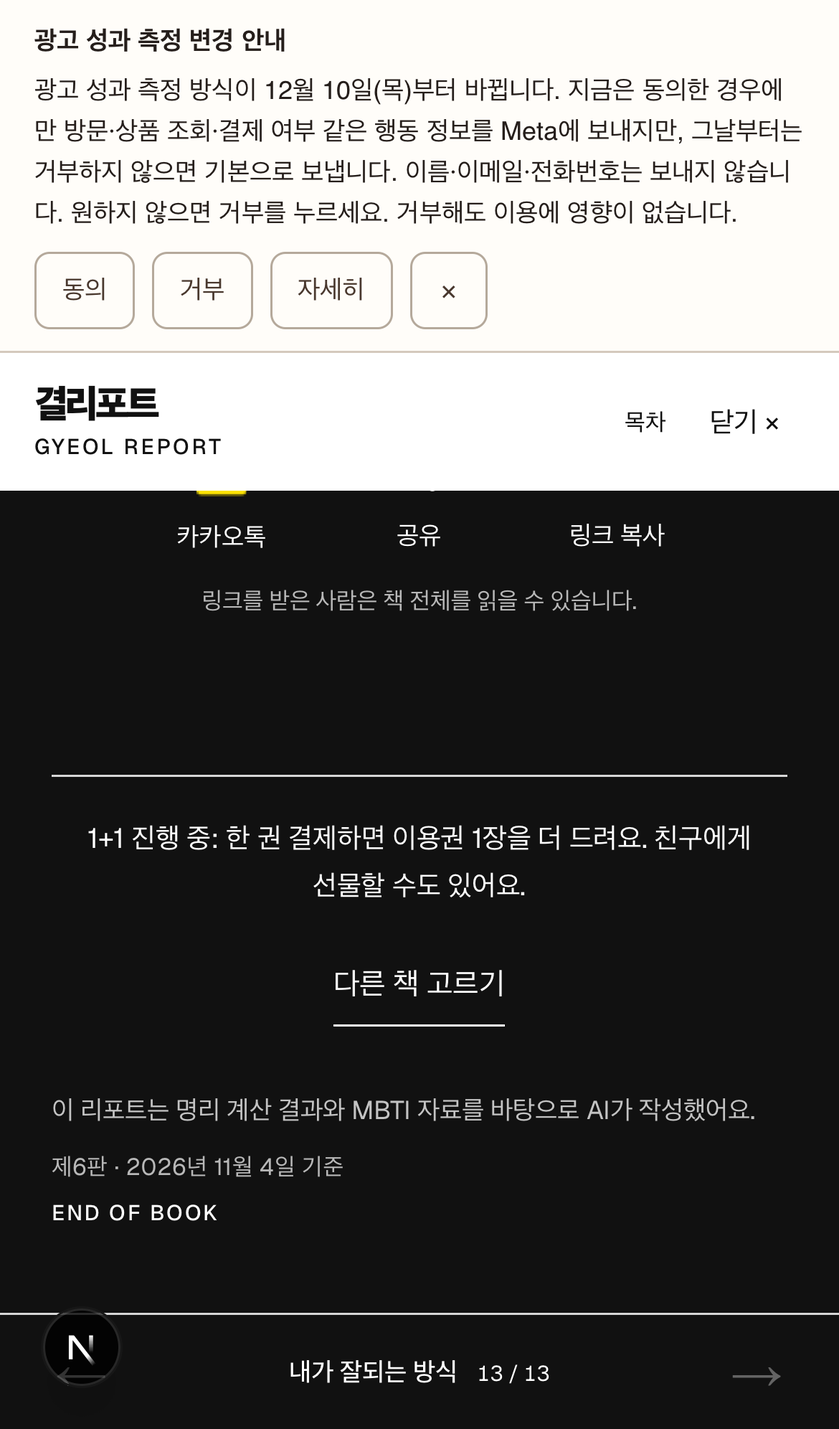
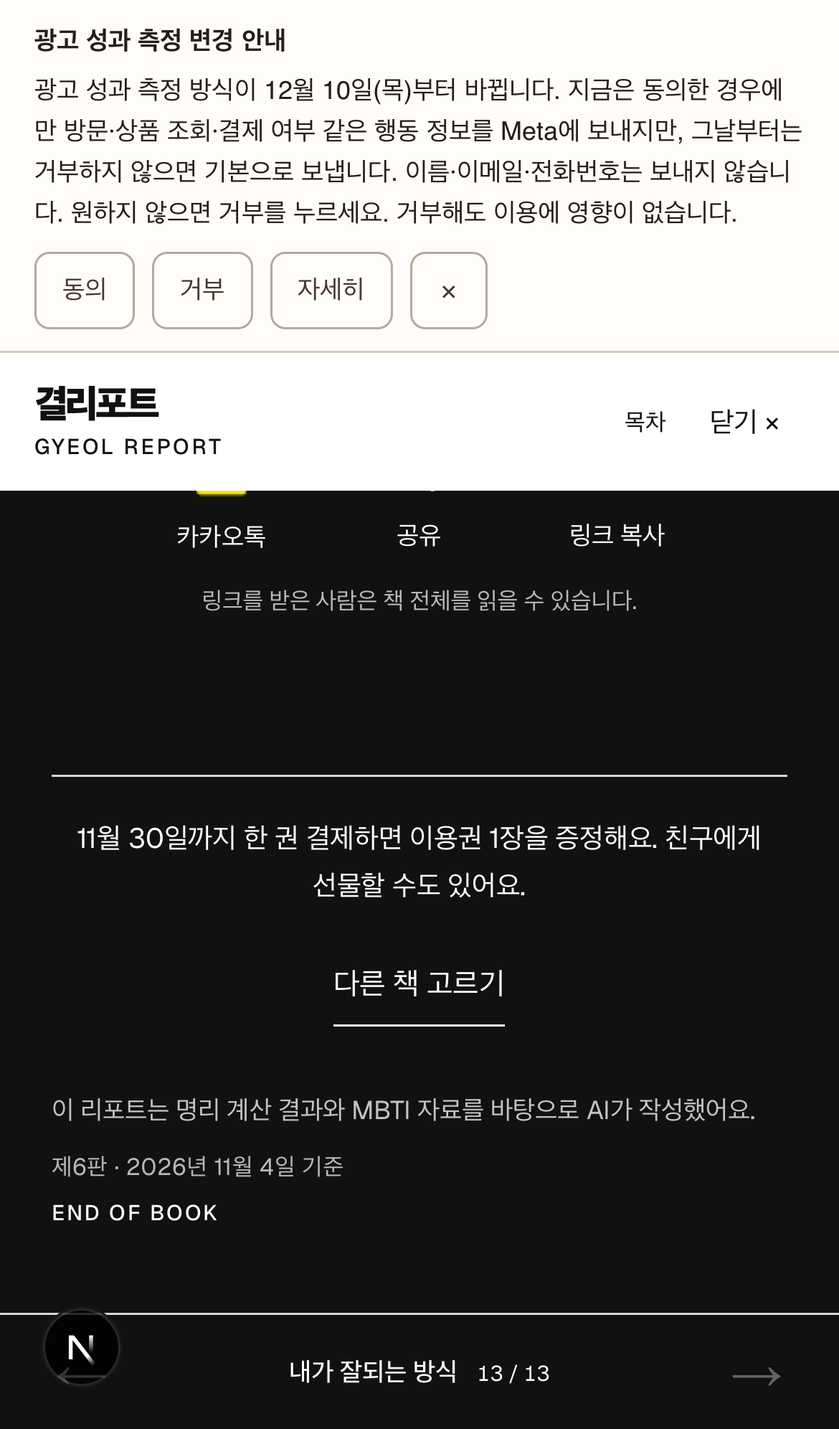
fix(free-book): 고객 화면 「1+1」 문구 4곳 → 「증정」(날짜 = 설정값), DB 시험 계정 표(ops_test_accounts)·ops_test_user가 표도 봄·서버 목록 60초 캐시, 배포 확인값 정리 migration, 캡처 다시

Changed region(s): [[0.0923, 0.5602, 0.9231, 0.5914]]

diff --git a/tests/unit/ops/freeBookWeb.test.tsx b/tests/unit/ops/freeBookWeb.test.tsx
@@ -5,7 +5,7 @@ vi.mock("server-only", () => ({}));
 const hits = vi.hoisted(() => ({ calls: [] as Record<string, unknown>[], user: null as null | { id: string } }));
 vi.mock("@/lib/ops/store", () => ({ createOpsStores: () => ({ funnel: { call: async (a: string, d: Record<string, unknown>) => { hits.calls.push({ a, ...d }); return { ok: true }; } }, signup: { call: async () => ({ ok: true, on: true }) } }) }));
 vi.mock("@/lib/account/supabase", () => ({ createAccountPort: () => ({ currentUser: async () => hits.user }) }));
-vi.mock("@/lib/ops/notify/deps", () => ({ testAccountIds: () => ["00000000-0000-4000-8000-00000000a001"] }));
+vi.mock("@/lib/ops/notify/deps", () => ({ testAccountIds: () => ["00000000-0000-4000-8000-00000000a001"], liveTestAccountIds: async () => new Set(["00000000-0000-4000-8000-00000000a001"]) }));
 import { NextRequest } from "next/server";
 import { renderToStaticMarkup } from "react-dom/server";
 import { POST as funnelPost } from "@/app/api/funnel/route";
@@ -125,9 +125,9 @@ describe("/free 화면", () => {
     const { FreeLanding } = await import("@/components/growth/FreeLanding");
     return renderToStaticMarkup(<FreeLanding signup={{ ...signupPublicView(true, { GIFT_EVENT_ENABLED: "1" }, Date.parse("2026-11-12T12:00:00+09:00")), active }} event={event} examples={freeExamples()} />);
   };
-  it("질문·설명·예시 「한 페이지」 3장(가상 인물 예시 본문 그대로, HTML)·혜택·[가입하고 무료로 받기]→로그인·1+1 줄(11월 30일까지)·권유 링크", async () => {
+  it("질문·설명·예시 「한 페이지」 3장(가상 인물 예시 본문 그대로, HTML)·혜택·[가입하고 무료로 받기]→로그인·증정 줄(11월 30일까지)·권유 링크", async () => {
     const html = await render(true);
-    for (const t of [FREE_COPY.question, FREE_COPY.lead, FREE_COPY.benefit, "(이용권 1장, 7일)", FREE_COPY.cta, "지금 1+1 진행 중 — 한 권 결제하면 이용권 1장 증정(11월 30일까지)", FREE_COPY.follow]) expect(html).toContain(t);
+    for (const t of [FREE_COPY.question, FREE_COPY.lead, FREE_COPY.benefit, "(이용권 1장, 7일)", FREE_COPY.cta, "11월 30일까지 한 권 결제하면 이용권 1장 증정", FREE_COPY.follow]) expect(html).toContain(t);
     expect(html).toContain('href="/login?next=/free"');
     expect((html.match(/data-free-example/g) ?? [])).toHaveLength(3);
     const ex = freeExamples();
@@ -158,5 +158,41 @@ describe("로그인 화면 한 줄·책 끝 연결 위치", () => {
     const reading = readFileSync("src/components/book/BookReading.tsx", "utf8"), reader = readFileSync("src/app/dev/book-preview/BookReader.tsx", "utf8");
     expect(reading).toContain("endNotice={!example && !shared && shareOwner && endNotice ? <BookEndNotice view={endNotice} home={home} /> : undefined}");
     expect(reader).toContain("</div></section>}{endNotice}{backAction}");
+  });
+});
+
+describe("2026-11-10 정정: 고객 화면 4곳은 「증정」 표현(「1+1」·「더 드려요」 없음), 날짜는 설정값(1+1 끝)", () => {
+  const NOW = Date.parse("2026-11-12T12:00:00+09:00"), ON = { GIFT_EVENT_ENABLED: "1" };
+  const banned = /1\+1|더 드려요|한 권이 더/;
+  it("가입 팝업·책 끝·메인 띠·/free 작은 줄 — 지시 문구 그대로", async () => {
+    const { signupPopupEventLine } = await import("@/components/event/EventPopup");
+    const { bookEndEventLine } = await import("@/components/book/BookReading");
+    const { SIGNUP_STRIP_TEXT, SIGNUP_STRIP_EVENT } = await import("@/components/growth/GiftEventCountdown");
+    const { eventEndDayLabel } = await import("@/lib/ops/config");
+    const until = eventEndDayLabel(giftEventPublicView(ON, NOW).endsAt);
+    expect(until).toBe("11월 30일");
+    const lines = [signupPopupEventLine(until), bookEndEventLine(until), `${SIGNUP_STRIP_TEXT} · ${SIGNUP_STRIP_EVENT}`, FREE_COPY.eventLine(until)];
+    expect(lines).toEqual(["11월 30일까지 한 권 결제하면 이용권 1장을 증정해요", "11월 30일까지 한 권 결제하면 이용권 1장을 증정해요. 친구에게 선물할 수도 있어요.",
+      "지금 가입하면 내 책 한 권 무료 · 결제 시 이용권 증정", "11월 30일까지 한 권 결제하면 이용권 1장 증정"]);
+    for (const l of lines) expect(l).not.toMatch(banned);
+  });
+  it("가입 팝업 화면: 서버가 준 1+1 끝(설정값)으로 날짜를 그린다 — 끝을 바꾸면 날짜도 바뀐다", async () => {
+    const { EventPopup } = await import("@/components/event/EventPopup");
+    const draw = (env: Record<string, string>) => renderToStaticMarkup(<EventPopup id="signup" clock={() => NOW} onDone={() => undefined}
+      state={{ member: true, comp: null, event: giftEventPublicView(env, NOW), signup: { active: true, mine: { status: "available", expiresAt: new Date(NOW + 7 * 86_400_000).toISOString() } } }} />);
+    expect(draw(ON)).toContain("11월 30일까지 한 권 결제하면 이용권 1장을 증정해요");
+    expect(draw({ ...ON, GIFT_EVENT_END: "2026-12-15" })).toContain("12월 15일까지 한 권 결제하면 이용권 1장을 증정해요");
+    expect(draw(ON)).not.toMatch(banned);
+  });
+  it("책 끝: 서버(bookEndNotice)가 설정값에서 날짜를 넘기고, 1+1 기간이 아니면 줄 없음", async () => {
+    const { bookEndNotice } = await import("@/lib/book/storedReport");
+    const { BookEndNotice } = await import("@/components/book/BookReading");
+    vi.stubEnv("GIFT_EVENT_ENABLED", "1");
+    const view = await bookEndNotice("report_x", false, NOW);
+    expect(view).toEqual({ event: true, eventUntil: "11월 30일", signup: false });
+    expect(renderToStaticMarkup(<BookEndNotice view={view} />)).toContain("11월 30일까지 한 권 결제하면 이용권 1장을 증정해요. 친구에게 선물할 수도 있어요.");
+    vi.stubEnv("GIFT_EVENT_END", "2026-12-15");
+    expect((await bookEndNotice("report_x", false, NOW)).eventUntil).toBe("12월 15일");
+    expect(await bookEndNotice("report_x", false, Date.parse("2026-12-20T00:00:00+09:00"))).toEqual({ event: false, eventUntil: "", signup: false });
   });
 });

diff --git a/tests/unit/ops/freeBookSql.test.ts b/tests/unit/ops/freeBookSql.test.ts
@@ -168,3 +168,42 @@ describe("매출 봇 /event: 시험 계정 이용권을 뺀다", () => {
     expect(Number(after.issued) - Number(before.issued)).toBe(1);
   });
 });
+
+describe("F 후속 「시험 계정 표」(ops_test_accounts, migration 20261111100000)", () => {
+  it("표에 넣으면 ops_test_user가 참(설정값 목록과 별개) → /campaign·/funnel 서버 기록·/event에서 빠지고, 빼면 바로 돌아온다", async () => {
+    const id = u(900); await joined(id);
+    expect(await signup.call("grant", { userId: id, providerHash: hash(900), ...win() })).toMatchObject({ ok: true, issued: true });
+    const stats = async () => signup.call("stats", { start: iso(Date.now() - 3_600_000) });
+    const server = async () => (await funnel.call("report", { days: 7 })).server as Record<string, number>;
+    const before = await stats(), beforeServer = await server();
+    expect((await h.one<{ r: boolean }>("select ops_test_user($1) r", [id])).r).toBe(false);
+    await h.exec("insert into public.ops_test_accounts(user_id,note) values($1,'덕짱님 시험')", [id]);
+    expect((await h.one<{ r: boolean }>("select ops_test_user($1) r", [id])).r).toBe(true);
+    const after = await stats(), afterServer = await server();
+    expect(Number(before.granted) - Number(after.granted)).toBe(1); expect(Number(before.signups) - Number(after.signups)).toBe(1);
+    expect(beforeServer.signups - afterServer.signups).toBe(1); expect(beforeServer.grants - afterServer.grants).toBe(1);
+    // 설정값(크론이 env로 덮어쓰는 목록)을 바꿔도 표의 계정은 그대로 시험 계정이다.
+    const saved = (await h.one<{ v: { ids: string[] } | null }>("select value v from ops_settings where key='test_accounts'")).v ?? { ids: [] };
+    await h.rpc("ops_notify_put_setting", "test_accounts", { ids: [] });
+    expect((await h.one<{ r: boolean }>("select ops_test_user($1) r", [id])).r).toBe(true);
+    await h.rpc("ops_notify_put_setting", "test_accounts", saved);
+    await h.exec("delete from public.ops_test_accounts where user_id=$1", [id]);
+    expect((await h.one<{ r: boolean }>("select ops_test_user($1) r", [id])).r).toBe(false);
+    expect(Number((await stats()).granted)).toBe(Number(before.granted));
+  });
+  it("서버(service_role)는 읽기만, 화면 역할(anon·authenticated)은 읽지도 못한다. 없는 계정 id는 넣을 수 없다(auth.users 참조)", async () => {
+    const grants = await h.all<{ grantee: string; privilege_type: string }>("select grantee,privilege_type from information_schema.role_table_grants where table_schema='public' and table_name='ops_test_accounts' and grantee in ('anon','authenticated','service_role') order by 1,2");
+    expect(grants).toEqual([{ grantee: "service_role", privilege_type: "SELECT" }]);
+    await expect(h.exec("insert into public.ops_test_accounts(user_id) values($1)", [u(901)])).rejects.toThrow(/foreign key|violates/);
+    expect((await h.one<{ rls: boolean }>("select relrowsecurity rls from pg_class where oid='public.ops_test_accounts'::regclass")).rls).toBe(true);
+  });
+  it("배포 확인값(funnel_daily source 'deploycheck')은 이 migration이 지운다 — 다른 행은 그대로", async () => {
+    await funnel.call("hit", { step: "free_view", source: "deploycheck", campaign: "f_deploy_check" });
+    await funnel.call("hit", { step: "free_view", source: "meta", campaign: "free_book_1111" });
+    const sql = (await import("node:fs")).readFileSync("supabase/migrations/20261111100000_v5_test_account_table.sql", "utf8");
+    const cleanup = sql.slice(sql.lastIndexOf("do $$ begin"), sql.lastIndexOf("commit;"));
+    await h.exec(cleanup);
+    expect((await h.one<{ n: number }>("select count(*)::int n from funnel_daily where source='deploycheck'")).n).toBe(0);
+    expect((await h.one<{ n: number }>("select count(*)::int n from funnel_daily where source='meta' and campaign='free_book_1111'")).n).toBeGreaterThan(0);
+  });
+});

diff --git a/tests/unit/ops/freeBookFlow.test.tsx b/tests/unit/ops/freeBookFlow.test.tsx
@@ -12,7 +12,9 @@ import { grantSignupTicket, readWallet, signupProviderHash, SIGNUP_HASH_LABEL } 
 import { giftEventConfig, giftEventPublicView, signupCampaignConfig, signupPublicView, SIGNUP_TICKET_DAYS } from "@/lib/ops/config";
 import { selectPopup, signupPopupDue, type PopupState } from "@/lib/ops/comp/popupSelect";
 import { signupStripVisible } from "@/components/growth/GiftEventCountdown";
-import { BookEndNotice, BOOK_END_EVENT_LINE, BOOK_END_SIGNUP_LINE, BOOK_END_CTA } from "@/components/book/BookReading";
+import { BookEndNotice, bookEndEventLine, BOOK_END_SIGNUP_LINE, BOOK_END_CTA } from "@/components/book/BookReading";
+/** 2026-11-10 정정 문구(「증정」, 날짜 = 설정값). */
+const BOOK_END_EVENT_LINE = "11월 30일까지 한 권 결제하면 이용권 1장을 증정해요. 친구에게 선물할 수도 있어요.";
 import { normalizeReportInputPayload } from "@/lib/report-generation/reportInputAdapter";
 import { runTicketPublicationJob } from "@/lib/tickets/publicationWorker";
 import { llmDeps, mockTextFor, opsStoreOf, RAW_FULL } from "../../helpers/v5Scenarios";
@@ -64,7 +66,7 @@ describe("신규 가입 → 이용권 1장 → 책 생성 → 책 끝 줄", () =
     expect(again).toMatchObject({ ok: true }); expect(again.joined).toBeUndefined(); expect(again.signupGift).toBeUndefined();
     expect(await readWallet(h.rpcOf("ops_gift"), user.id)).toMatchObject({ total: 1, usable: 1, giftable: 0 });
   });
-  it("그 이용권으로 책 생성(실제 발행 경로) → 발행 → 책 끝 판정 signup:true, 1+1 기간이면 1+1 줄도", async () => {
+  it("그 이용권으로 책 생성(실제 발행 경로) → 발행 → 책 끝 판정 signup:true, 1+1 기간이면 증정 줄도", async () => {
     const payload = (() => { const n = normalizeReportInputPayload(RAW_FULL, { now: () => new Date("2026-10-27T03:00:00.000Z") }); if (!n.ok) throw new Error("payload"); return n.value; })();
     const requestId = randomUUID();
     expect(await h.rpc("ops_gift", "spend", { userId: user.id, productType: payload.productKey, requestId })).toMatchObject({ ok: true, moved: true });
@@ -79,13 +81,14 @@ describe("신규 가입 → 이용권 1장 → 책 생성 → 책 끝 줄", () =
     expect(snap).toMatchObject({ status: "COMPLETED" }); expect(snap.ticket_redemption_id).toBeTruthy();
     expect(await h.rpc("ops_signup", "book_kind", { reportId })).toEqual({ ok: true, signup: true });
     expect((await h.one<{ status: string }>("select status from gift_rewards where owner_user_id=$1", [user.id])).status).toBe("used_self");
-    const html = renderToStaticMarkup(<BookEndNotice view={{ event: true, signup: true }} />);
+    expect(bookEndEventLine("11월 30일")).toBe(BOOK_END_EVENT_LINE);
+    const html = renderToStaticMarkup(<BookEndNotice view={{ event: true, signup: true, eventUntil: "11월 30일" }} />);
     expect(html.indexOf(BOOK_END_SIGNUP_LINE)).toBeGreaterThanOrEqual(0);
     expect(html.indexOf(BOOK_END_SIGNUP_LINE)).toBeLessThan(html.indexOf(BOOK_END_EVENT_LINE));
     expect(html).toContain(`>${BOOK_END_CTA}</a>`);
   }, 60_000);
-  it("결제 책은 1+1 줄만, 1+1 기간이 아니면 결제 책엔 아무것도 없다(가입 이용권 책은 가입 줄만)", () => {
-    const paid = renderToStaticMarkup(<BookEndNotice view={{ event: true, signup: false }} />);
+  it("결제 책은 증정 줄만, 1+1 기간이 아니면 결제 책엔 아무것도 없다(가입 이용권 책은 가입 줄만)", () => {
+    const paid = renderToStaticMarkup(<BookEndNotice view={{ event: true, signup: false, eventUntil: "11월 30일" }} />);
     expect(paid).toContain(BOOK_END_EVENT_LINE); expect(paid).not.toContain(BOOK_END_SIGNUP_LINE);
     expect(renderToStaticMarkup(<BookEndNotice view={{ event: false, signup: false }} />)).toBe("");
     const after = renderToStaticMarkup(<BookEndNotice view={{ event: false, signup: true }} />);

diff --git a/src/components/event/EventPopup.tsx b/src/components/event/EventPopup.tsx
@@ -6,7 +6,7 @@ import {
   eventRangeLabel, expiryLabel, isPopupState, popupAllowedPath, popupHidden, remainingLabel, rememberPopup, selectPopup,
   type PopupId, type PopupState,
 } from "../../lib/ops/comp/popupSelect";
-import { kstMonthDayLabel } from "../../lib/ops/config";
+import { eventEndDayLabel, kstMonthDayLabel } from "../../lib/ops/config";
 import s from "./eventPopup.module.css";
 
 const storages = () => {
@@ -63,8 +63,9 @@ export function EventPopupHost() {
  */
 export const SIGNUP_POPUP_TITLE = "가입을 환영해요.";
 export const SIGNUP_POPUP_BODY = "내 책 한 권을 무료로 만들 수 있는 이용권 1장을 서재에 넣어 드렸어요(7일 안에 사용).";
-export const SIGNUP_POPUP_EVENT_LINE = "지금 1+1 진행 중 — 한 권 결제하면 이용권 1장을 더 드려요";
-export function SignupPopupBody({ titleId, bodyId, eventOn, onPick, custom = false }: { titleId: string; bodyId: string; eventOn: boolean; onPick: () => void; custom?: boolean }) {
+/** 1+1 기간 작은 줄(2026-11-10 정정: 「증정」 표현, 날짜는 설정값 — 1+1 끝). */
+export const signupPopupEventLine = (until: string) => `${until ? `${until}까지 ` : ""}한 권 결제하면 이용권 1장을 증정해요`;
+export function SignupPopupBody({ titleId, bodyId, eventOn, eventUntil = "", onPick, custom = false }: { titleId: string; bodyId: string; eventOn: boolean; eventUntil?: string; onPick: () => void; custom?: boolean }) {
   return <>
     <p className={s.eyebrow}>WELCOME</p>
     <h2 id={titleId} className={s.title}>{SIGNUP_POPUP_TITLE}</h2>
@@ -72,7 +73,7 @@ export function SignupPopupBody({ titleId, bodyId, eventOn, onPick, custom = fal
     <div className={s.actions}>
       <Link className={s.primary} href="/" data-signup-pick onClick={e => { if (/^\/(products)?\/?$/.test(window.location.pathname) || custom) e.preventDefault(); onPick(); }}>책 고르기</Link>
     </div>
-    {eventOn ? <p className={s.small} data-signup-event-line>{SIGNUP_POPUP_EVENT_LINE}</p> : null}
+    {eventOn ? <p className={s.small} data-signup-event-line>{signupPopupEventLine(eventUntil)}</p> : null}
   </>;
 }
 
@@ -103,7 +104,7 @@ export function EventPopup({ id, state, clock = Date.now, onDone, onPick }: { id
     onClick={e => { if (e.target === e.currentTarget) done("close"); }}>
     <div className={s.card}>
       <button type="button" className={s.close} aria-label="닫기" onClick={() => done("close")}><span aria-hidden="true">×</span></button>
-      {id === "signup" ? <SignupPopupBody titleId={titleId} bodyId={bodyId} eventOn={eventOn} custom={Boolean(onPick)} onPick={() => { if (onPick) { if (ref.current?.open && typeof ref.current.close === "function") ref.current.close(); onPick(); } else done("close"); }} /> : id === "event-1plus1" && event ? <>
+      {id === "signup" ? <SignupPopupBody titleId={titleId} bodyId={bodyId} eventOn={eventOn} eventUntil={eventEndDayLabel(event?.endsAt)} custom={Boolean(onPick)} onPick={() => { if (onPick) { if (ref.current?.open && typeof ref.current.close === "function") ref.current.close(); onPick(); } else done("close"); }} /> : id === "event-1plus1" && event ? <>
         <p className={s.eyebrow}>{eventRangeLabel(event)}</p>
         <h2 id={titleId} className={s.title}>한 권을 펼치면, 이용권 한 장</h2>
         <p id={bodyId} className={s.body}>리포트를 결제하면 1건마다 이용권 1장을 증정해요. 나를 한 권 더 읽거나, 소중한 사람에게 선물해 보세요.</p>

diff --git a/tests/unit/account/metaTestExclude.test.ts b/tests/unit/account/metaTestExclude.test.ts
@@ -39,10 +39,12 @@ beforeAll(async () => {
       select p_user is not null and coalesce((select jsonb_typeof(s.value->'ids')='array' and s.value->'ids' ? p_user::text from public.ops_settings s where s.key='test_accounts'), false); $$;`);
   // 같은 migration을 두 번 올리면 앵커가 없어 실패한다(이중 적용 방지) — 한 번만.
   await db.exec(read("20261111091000_v5_meta_test_exclude.sql"));
+  // F 후속: 시험 계정 표(ops_test_accounts) — 운영 순서대로 그 뒤에 올린다(ops_test_user가 표도 본다).
+  await db.exec(read("20261111100000_v5_test_account_table.sql"));
 }, 30000);
 beforeEach(async () => {
   await db.exec("truncate meta_conversion_outbox,meta_tracking_consents,account_contacts,launch_event_policy,growth_campaigns,report_ticket_grants,referral_invites,campaign_attributions,new_user_acquisitions cascade");
-  await db.exec("delete from public.ops_settings where key='test_accounts'");
+  await db.exec("delete from public.ops_settings where key='test_accounts'"); await db.exec("delete from public.ops_test_accounts");
   await h.clock(START); await h.policy(); await db.exec("update growth_campaigns set public_slug='gyeol-opening-2026'");
 });
 afterAll(async () => { await db?.close(); });
@@ -83,5 +85,17 @@ describe("시험 계정 메타 전송 차단(DB 트리거·전송 단계)", () =
     expect((await db.query<{ r: boolean }>("select queue_meta_purchase($1,null,'192.0.2.7','ua',$2) r", [report, tester])).rows[0].r).toBe(false);
     const event = `purchase_${createHash("md5").update(`gyeol:paid-order:${order}`).digest("hex")}`;
     expect((await db.query<{ n: number }>("select count(*)::int n from meta_conversion_outbox where event_id=$1", [event])).rows[0].n).toBe(0);
+  });
+  it("F 후속 「시험 계정 표」(ops_test_accounts)에 넣은 계정도 같은 자리에서 빠진다 — 설정값(관리자·누나 목록)과 별개, 재배포 없이", async () => {
+    const tester = await h.user(); const key = await consent(tester);
+    await db.query("insert into public.ops_test_accounts(user_id,note) values($1,'시험')", [tester]);
+    expect((await db.query<{ r: boolean }>("select public.ops_test_user($1) r", [tester])).rows[0].r).toBe(true);
+    const { order, report } = await paidOrder(tester);
+    expect(await rows(order)).toEqual([]);
+    expect((await db.query<{ r: boolean }>("select queue_meta_purchase($1,$2,'192.0.2.9','ua',$3) r", [report, key, tester])).rows[0].r).toBe(false);
+    // 표에서 빼면 바로 예전 그대로(다음 결제는 1줄).
+    await db.query("delete from public.ops_test_accounts where user_id=$1", [tester]);
+    expect((await db.query<{ r: boolean }>("select public.ops_test_user($1) r", [tester])).rows[0].r).toBe(false);
+    expect(await rows((await paidOrder(tester)).order)).toHaveLength(1);
   });
 });

diff --git a/tests/unit/ops/freeBookBots.test.ts b/tests/unit/ops/freeBookBots.test.ts
@@ -6,6 +6,7 @@ import { handleUpdate, type BotDeps } from "@/lib/ops/notify/bots";
 import { BOT_COMMANDS, flushNotifications, runNotifyCycle, SIGNUP_SURGE_THRESHOLD } from "@/lib/ops/notify/flush";
 import { apiCreditText, campaignText, funnelText, signupSurgeText } from "@/lib/ops/notify/render";
 import { grantSignupTicket } from "@/lib/ops/gift/service";
+import { liveTestAccountIds, resetLiveTestAccounts, SISTER_TEST_USER_ID, TEST_TABLE_TTL_MS } from "@/lib/ops/notify/deps";
 import { fakeTelegram, opsNotifySql } from "../../helpers/opsNotify";
 import { TICKET_A as A } from "../../helpers/ticketPublicationSql";
 
@@ -120,5 +121,24 @@ describe("/campaign · /funnel · API 잔액 경보", () => {
     expect(campaignText({ on: false, at: "2026-11-11T05:00:00Z", signupsToday: 1, signups: 2, grantedToday: 1, granted: 2, used: 1, available: 1, expired: 0, booksStarted: 1, booksPublished: 1, avgCostUsd: null, costSample: 0 }, "11/11~11/30"))
       .toMatch(/^🎟 <b>가입 이용권<\/b> · ⏸ 지급 멈춤\(11\/11 14:00\)/);
     expect(funnelText({ today: "2026-11-11", from: "2026-11-05", rows: [], server: {} })).toContain("아직 기록이 없어요");
+  });
+});
+
+describe("F 후속: 서버의 시험 계정 목록 = env(관리자·누나 계정) + DB 「시험 계정 표」(60초 캐시)", () => {
+  it("표의 계정을 더하고, 60초 안에는 다시 읽지 않으며, 읽기 실패면 직전 값을 쓴다(처음이면 env 목록만)", async () => {
+    resetLiveTestAccounts();
+    const ADMIN = "00000000-0000-4000-8000-00000000a0a0", T1 = "00000000-0000-4000-8000-000000000071", T2 = "00000000-0000-4000-8000-000000000072";
+    const e = { ADMIN_USER_IDS: ADMIN };
+    let reads = 0; const read = (ids: string[] | null) => async () => { reads++; return ids; };
+    const first = await liveTestAccountIds(e, 1_000, read([T1.toUpperCase()]));
+    expect([...first].sort()).toEqual([ADMIN, SISTER_TEST_USER_ID, T1].sort());
+    expect([...await liveTestAccountIds(e, 1_000 + TEST_TABLE_TTL_MS - 1, read([T2]))]).not.toContain(T2);
+    expect(reads).toBe(1);
+    const fresh = await liveTestAccountIds(e, 1_000 + TEST_TABLE_TTL_MS, read([T2]));
+    expect(fresh.has(T2)).toBe(true); expect(fresh.has(T1)).toBe(false);
+    expect((await liveTestAccountIds(e, 1_000 + 2 * TEST_TABLE_TTL_MS, read(null))).has(T2)).toBe(true);
+    resetLiveTestAccounts();
+    expect([...await liveTestAccountIds(e, 5_000, read(null))].sort()).toEqual([ADMIN, SISTER_TEST_USER_ID].sort());
+    resetLiveTestAccounts();
   });
 });

diff --git a/src/lib/ops/notify/deps.ts b/src/lib/ops/notify/deps.ts
@@ -1,6 +1,7 @@
 import "server-only";
 import { defaultAdminDeps } from "../admin/actions";
 import { adminUserIds } from "../config";
+import { withDeadline } from "../../network/withDeadline";
 import { createOpsStores } from "../store";
 import type { BotDeps } from "./bots";
 import { tossPaymentMethodReader, type NotifyDeps } from "./flush";
@@ -14,6 +15,27 @@ export const SISTER_TEST_USER_ID = "d0dd2e4e-38cf-49b5-8dea-7a35ee54dd55";
  * 1분 크론이 DB(ops_settings 'test_accounts')에 맞추고, SQL 집계는 public.ops_test_user(uuid)로 뺀다(migration 20261110200000).
  */
 export function testAccountIds(env: Env = process.env): string[] { return [...new Set([...adminUserIds(env), SISTER_TEST_USER_ID].map(s => s.toLowerCase()))].sort(); }
+/**
+ * F 후속 「시험 계정 표」(DB public.ops_test_accounts — 관리자 권한과 별개, 집계·메타 전송에서만 뺌)까지 더한 목록.
+ * 세션의 「시험」 브라우저 표시와 /api/funnel 회원 단계가 쓴다(SQL 집계는 ops_test_user()가 같은 표를 본다). 60초 캐시, 못 읽으면 직전 값(처음이면 env 목록만).
+ */
+export const TEST_TABLE_TTL_MS = 60_000;
+let testTable: { at: number; ids: readonly string[] } | null = null;
+/** DB 표 읽기(service_role, 3초). 못 읽으면 null. */
+async function readTestTable(env: Env): Promise<string[] | null> {
+  const db = createOpsStores(env).db;
+  if (!db) return null;
+  try {
+    const { data, error } = await withDeadline(async signal => await db.from("ops_test_accounts").select("user_id").limit(200).abortSignal(signal), 3_000);
+    return !error && Array.isArray(data) ? data.map(r => String((r as { user_id: unknown }).user_id).toLowerCase()) : null;
+  } catch { return null; }
+}
+export async function liveTestAccountIds(env: Env = process.env, now = Date.now(), read: () => Promise<string[] | null> = () => readTestTable(env)): Promise<Set<string>> {
+  if (!testTable || now - testTable.at >= TEST_TABLE_TTL_MS || now < testTable.at) testTable = { at: now, ids: (await read()) ?? testTable?.ids ?? [] };
+  return new Set([...testAccountIds(env), ...testTable.ids]);
+}
+/** 시험용: 캐시 비우기. */
+export function resetLiveTestAccounts() { testTable = null; }
 /** 운영 기본 의존성(service_role 저장소 + 텔레그램 + 토스 결제 조회). 시험은 각 함수에 대역을 넘긴다. */
 export function defaultBotDeps(env: Env = process.env): BotDeps {
   const stores = createOpsStores(env), db = stores.db;

diff --git a/tests/helpers/opsNotify.ts b/tests/helpers/opsNotify.ts
@@ -29,11 +29,13 @@ export const refundProvider: RefundProvider = {
 /** F(가입 이용권·퍼널): 운영과 같은 순서로 1+1·보상(final4·별칭 고침·perf) migration을 먼저 올린 뒤 운영 Q·시험 계정, 마지막에 F. */
 export const FREE_BOOK_PRE_MIGRATIONS = ["supabase/migrations/20261106100000_v5_final4_event_comp.sql", "supabase/migrations/20261106200000_v5_deploy_gift_pending_alias.sql", "supabase/migrations/20261107090000_v5_perf_event_tickets.sql"];
 export const FREE_BOOK_MIGRATION = "supabase/migrations/20261111090000_v5_free_book.sql";
+/** F 후속: 시험 계정 표(ops_test_accounts) + ops_test_user 재정의 + 확인값 정리. */
+export const TEST_ACCOUNT_TABLE_MIGRATION = "supabase/migrations/20261111100000_v5_test_account_table.sql";
 export async function opsNotifySql(opts: { freeBook?: boolean } = {}) {
   const h = await opsSql();
   if (opts.freeBook) { await h.db.exec("reset role"); for (const f of FREE_BOOK_PRE_MIGRATIONS) await h.db.exec(readFileSync(f, "utf8")); await h.db.exec("set role service_role"); }
   const asOwner = async <T>(f: () => Promise<T>) => { await h.db.exec("reset role"); try { return await f(); } finally { await h.db.exec("set role service_role"); } };
-  await asOwner(async () => { await h.db.exec(readFileSync(OPS_Q_MIGRATION, "utf8")); await h.db.exec(readFileSync(OPS_SHARE_ALERT_MIGRATION, "utf8")); await h.db.exec(readFileSync(OPS_WAKE_MIGRATION, "utf8")); await h.db.exec(readFileSync(OPS_TEST_ACCOUNTS_MIGRATION, "utf8")); if (opts.freeBook) await h.db.exec(readFileSync(FREE_BOOK_MIGRATION, "utf8")); });
+  await asOwner(async () => { await h.db.exec(readFileSync(OPS_Q_MIGRATION, "utf8")); await h.db.exec(readFileSync(OPS_SHARE_ALERT_MIGRATION, "utf8")); await h.db.exec(readFileSync(OPS_WAKE_MIGRATION, "utf8")); await h.db.exec(readFileSync(OPS_TEST_ACCOUNTS_MIGRATION, "utf8")); if (opts.freeBook) { await h.db.exec(readFileSync(FREE_BOOK_MIGRATION, "utf8")); await h.db.exec(readFileSync(TEST_ACCOUNT_TABLE_MIGRATION, "utf8")); } });
   const one = <T = Record<string, unknown>>(sql: string, params: unknown[] = []) => asOwner(async () => (await h.db.query(sql, params)).rows[0] as T);
   const all = <T = Record<string, unknown>>(sql: string, params: unknown[] = []) => asOwner(async () => (await h.db.query(sql, params)).rows as T[]);
   const exec = (sql: string, params: unknown[] = []) => asOwner(async () => { await h.db.query(sql, params); });

diff --git a/src/app/api/funnel/route.ts b/src/app/api/funnel/route.ts
@@ -5,7 +5,7 @@ import { funnelTag, isFunnelStep, MEMBER_FUNNEL_STEPS, TEST_BROWSER_COOKIE } fro
 /**
  * F 퍼널 익명 집계: POST {step, source, campaign} → 「날짜 × 단계 × 유입」 칸 +1(ops_funnel 'hit'). 응답은 늘 204(본문 없음).
  * 저장하지 않는 것: 사용자 id·IP·쿠키 식별자. 같은 단계 1번은 브라우저 세션 저장소가 맡는다.
- * 시험 제외: 「시험」 브라우저 표시가 있으면 세지 않는다. 회원 단계는 로그인 계정이 시험 계정(관리자·누나 계정)이면 세지 않고 표시를 남긴다.
+ * 시험 제외: 「시험」 브라우저 표시가 있으면 세지 않는다. 회원 단계는 로그인 계정이 시험 계정(관리자·누나 계정 + DB 「시험 계정 표」)이면 세지 않고 표시를 남긴다.
  */
 export const dynamic = "force-dynamic";
 const done = () => new NextResponse(null, { status: 204, headers: { "cache-control": "no-store" } });
@@ -19,9 +19,9 @@ export async function POST(request: NextRequest) {
     if (request.cookies.get(TEST_BROWSER_COOKIE)?.value === "1") return done();
     if (MEMBER_FUNNEL_STEPS.includes(b.step) && request.cookies.getAll().some(c => c.name.startsWith("sb-"))) {
       const { createAccountPort } = await import("../../../lib/account/supabase");
-      const { testAccountIds } = await import("../../../lib/ops/notify/deps");
+      const { liveTestAccountIds } = await import("../../../lib/ops/notify/deps");
       const user = await createAccountPort(request)?.currentUser().catch(() => null);
-      if (user && testAccountIds().includes(user.id.toLowerCase())) {
+      if (user && (await liveTestAccountIds()).has(user.id.toLowerCase())) {
         const r = done(); r.cookies.set(TEST_BROWSER_COOKIE, "1", { httpOnly: true, sameSite: "lax", secure: true, path: "/", maxAge: 365 * 86_400 }); return r;
       }
     }

diff --git a/src/lib/book/storedReport.tsx b/src/lib/book/storedReport.tsx
@@ -8,19 +8,19 @@ import { BookReadingPresentation } from "../../components/book/BookEntry";
 import { projectV5Book, v5EditionLabel, validateV5Publication } from "../writer/book";
 import { koreanDate, kstDay } from "./readerCopy";
 import type { BookEndNoticeView } from "../../components/book/BookReading";
-import { giftEventActive } from "../ops/config";
+import { eventEndDayLabel, giftEventActive, giftEventPublicView } from "../ops/config";
 
 /**
- * F 책 끝 연결(주인 화면): 1+1 기간이면 1+1 한 줄, 가입 이용권으로 만든 책이면 그 위에 한 줄 더(ops_signup 'book_kind'). 못 읽으면 가입 줄만 뺀다.
+ * F 책 끝 연결(주인 화면): 1+1 기간이면 「○월 ○일까지 한 권 결제하면 이용권 1장을 증정해요」 한 줄(날짜 = 설정값), 가입 이용권으로 만든 책이면 그 위에 한 줄 더(ops_signup 'book_kind'). 못 읽으면 가입 줄만 뺀다.
  */
 export async function bookEndNotice(reportId: string, ticketBook: boolean, now = Date.now()): Promise<BookEndNoticeView> {
-  const event = giftEventActive(process.env, now);
-  if (!ticketBook) return { event, signup: false };
+  const event = giftEventActive(process.env, now), eventUntil = event ? eventEndDayLabel(giftEventPublicView(process.env, now).endsAt) : "";
+  if (!ticketBook) return { event, eventUntil, signup: false };
   try {
     const { createOpsStores } = await import("../ops/store");
     const r = await createOpsStores().signup.call("book_kind", { reportId });
-    return { event, signup: r.ok === true && r.signup === true };
-  } catch { return { event, signup: false }; }
+    return { event, eventUntil, signup: r.ok === true && r.signup === true };
+  } catch { return { event, eventUntil, signup: false }; }
 }
 
 // Called only behind the server gate (or an explicit local test store).

diff --git a/src/components/book/BookReading.tsx b/src/components/book/BookReading.tsx
@@ -18,14 +18,15 @@ import { readableBookText } from "../../lib/book/readerCopy";
 
 /** F 책 끝 연결(주인 화면만 — 받은 사람의 공유 화면·예시에는 없다). 공유 버튼(링크 복사·카카오톡·공유하기)은 그대로 두고 그 아래에 둔다. */
 export const BOOK_END_SIGNUP_LINE = "무료로 받은 책은 어떠셨나요? 마음에 드셨다면 다른 이야기도 만나 보세요.";
-export const BOOK_END_EVENT_LINE = "1+1 진행 중: 한 권 결제하면 이용권 1장을 더 드려요. 친구에게 선물할 수도 있어요.";
+/** 1+1 기간 줄(2026-11-10 정정: 「증정」 표현, 날짜는 서버 설정값 — 1+1 끝). */
+export const bookEndEventLine = (until: string) => `${until ? `${until}까지 ` : ""}한 권 결제하면 이용권 1장을 증정해요. 친구에게 선물할 수도 있어요.`;
 export const BOOK_END_CTA = "다른 책 고르기";
-export type BookEndNoticeView = { event: boolean; signup: boolean };
+export type BookEndNoticeView = { event: boolean; signup: boolean; eventUntil?: string };
 export function BookEndNotice({ view, home = "/" }: { view: BookEndNoticeView; home?: string }) {
   if (!view.event && !view.signup) return null;
   return <section className={shareStyle.endNotice} aria-label="다른 책 고르기" data-book-end-notice={view.signup ? "signup" : "paid"}>
     {view.signup ? <p data-book-end-signup>{BOOK_END_SIGNUP_LINE}</p> : null}
-    {view.event ? <p data-book-end-event>{BOOK_END_EVENT_LINE}</p> : null}
+    {view.event ? <p data-book-end-event>{bookEndEventLine(view.eventUntil ?? "")}</p> : null}
     <a className={shareStyle.endCta} href={home} data-book-end-cta>{BOOK_END_CTA}</a>
   </section>;
 }

diff --git a/src/app/auth/[action]/route.ts b/src/app/auth/[action]/route.ts
@@ -48,9 +48,9 @@ async function handle(request: NextRequest, context: { params: Promise<{ action:
     return handleLibrary(request, action.slice(8), port, createLibraryPort());
   }
   const { handleAccount } = await import("../../../lib/account/handler");
-  // F: 시험 계정(관리자·누나 계정) — 세션 응답·로그인 콜백이 「시험」 브라우저 표시를 남긴다(퍼널·메타 전송 제외).
-  const { testAccountIds } = await import("../../../lib/ops/notify/deps");
-  const testers = new Set(testAccountIds()), isTester = (id: string) => testers.has(id.toLowerCase());
+  // F: 시험 계정(관리자·누나 계정 + DB 「시험 계정 표」) — 세션 응답·로그인 콜백이 「시험」 브라우저 표시를 남긴다(퍼널·메타 전송 제외).
+  const { liveTestAccountIds } = await import("../../../lib/ops/notify/deps");
+  const testers = await liveTestAccountIds(), isTester = (id: string) => testers.has(id.toLowerCase());
   if (action !== "session") return handleAccount(request, action, port, false, { isTester });
   // 재동의 화면 맨 위 한 줄(P 본문 3): 안 쓴 보상 이용권이 있는 기존 회원에게만(읽기 전용 ops_comp_campaign 'popup').
   const { compCampaignStore } = await import("../../../lib/ops/comp/popup");
